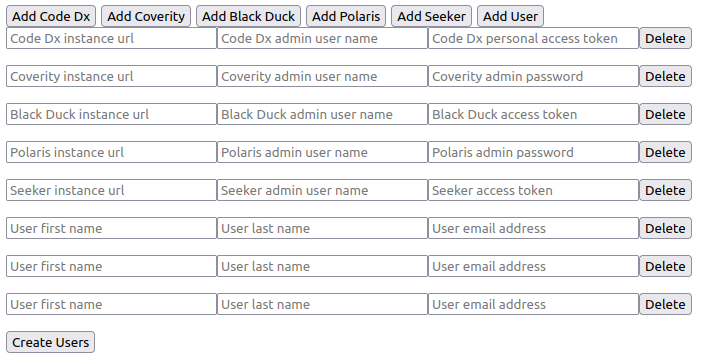
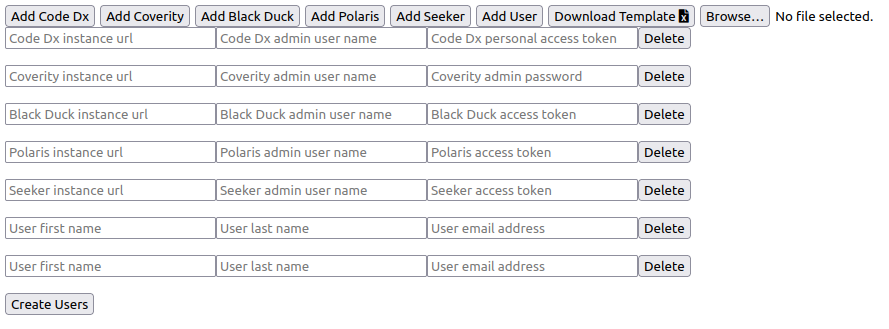
Update readme

diff --git a/README.md b/README.md
@@ -1,3 +1,10 @@
+# Prereqs
+
+- All instances must be provisioned and licensed
+- Admin level access tokens must be generated for all instances except coverity
+- Coverity instances require admin username and password
+- User names and emails must be collected manually or using the downloadable template
+
 # How To
 
 1. `git clone https://github.com/shanko07/synopsys-instance-creator.git`
@@ -8,10 +15,8 @@
 ![UI](./ui.png)
 
 To use the utility you simply "Add" whichever Synopsys servers you'd like to add users to with the accompanying admin
-credentials on those servers. Then you "Add" the users. The utility will automatically generate passwords, create the
-users as admins, and save the necessary information in `creds.txt`.
+credentials on those servers. Then you "Add" the users.  You can also add users by downloading the template and filling in the necessary information and uploading back using the "Browse" button.  The utility will automatically generate passwords, create the
+users as admins, and prompt you to download an excel sheet named `Credentials.xlsx`
 
-:warning: The contents of `creds.txt` are plaintext usernames and passwords for admin users. They are never transmitted
-over the network, but please be careful with this file. :warning:
-
-ℹ Polaris support has not yet been added.  All the piping is there, but the API calls need to be implemented and the UI messages possibly slightly adjusted ℹ
+:warning: The contents of `Credentials.xlsx` are plaintext usernames and passwords for admin users. Please be careful
+with this file. :warning:
